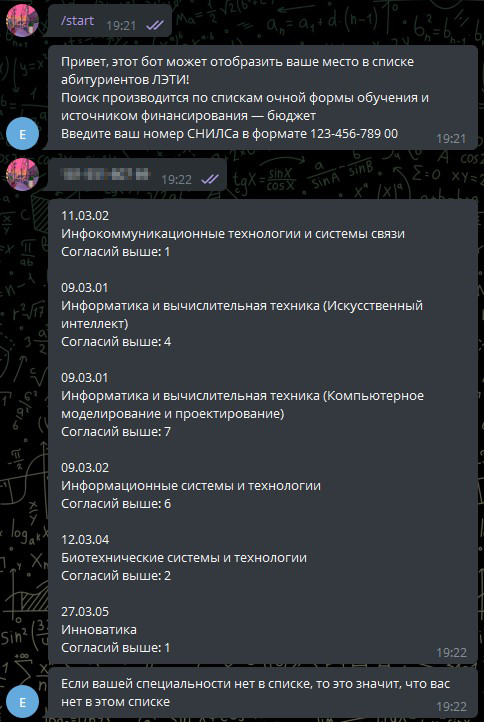
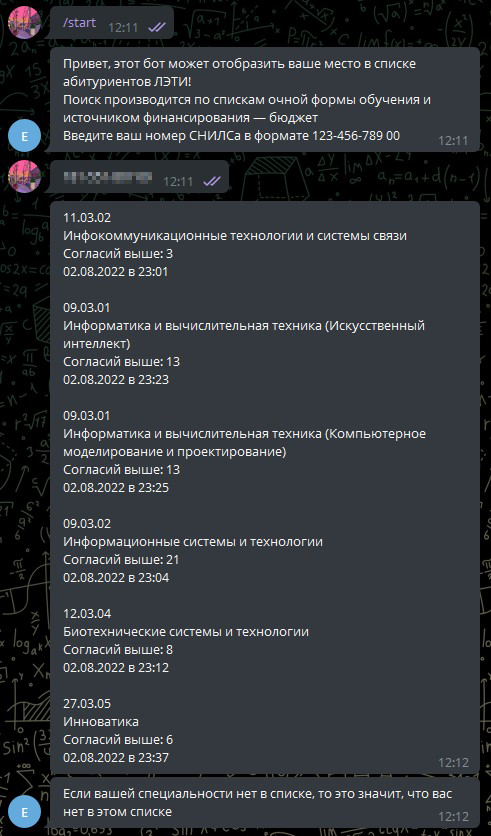
added update time

Changed region(s): [[0.0, 0.0, 1.0, 1.0]]

diff --git a/ETU_parser.py b/ETU_parser.py
@@ -6,6 +6,7 @@ from bs4 import BeautifulSoup
 class Info(NamedTuple):
     speciality: str
     count_agreements: str
+    last_update: str
 
 def get_pages(unique_number: str) -> list[Info]:
     info = list()
@@ -19,10 +20,10 @@ def get_pages(unique_number: str) -> list[Info]:
 
 def get_info(unique_number: str, desc: str, soup: BeautifulSoup) -> Info:
     count_agreements = 0
-    
+    last_update = soup.find("span", {"class": "text-muted"}).text.split("-")[0].strip()
     for user in soup.find_all('tr'):
         for field in user.children:
             if 'class="fio"' in str(field) and field.string == unique_number:
-                return Info(desc, count_agreements)
+                return Info(desc, count_agreements, last_update)
             if 'class="is-agree"' in str(field) and field.string == 'Да': count_agreements += 1
-    return Info(desc, 'Нет в списке')
+    return Info(desc, "Нет в списке", "")

diff --git a/bot.py b/bot.py
@@ -20,7 +20,7 @@ def add_button(message):
 def rate_reply(message):
     if match(r'\d{3}-\d{3}-\d{3} \d{2}', message.text):
         mess = [
-                f"{info.speciality}\nСогласий выше: {info.count_agreements}\n\n"
+                f"{info.speciality}\nСогласий выше: {info.count_agreements}\n{info.last_update}\n\n"
                 for info in get_pages(message.text)
                 if type(info.count_agreements) == int
                ]
